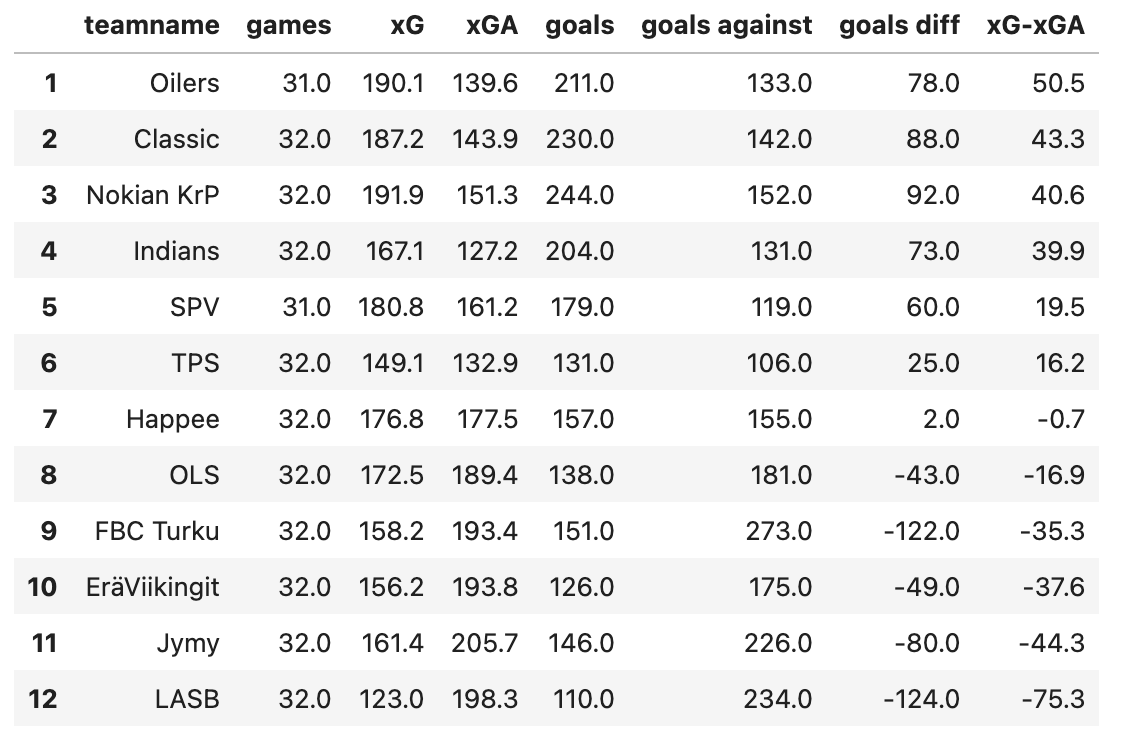
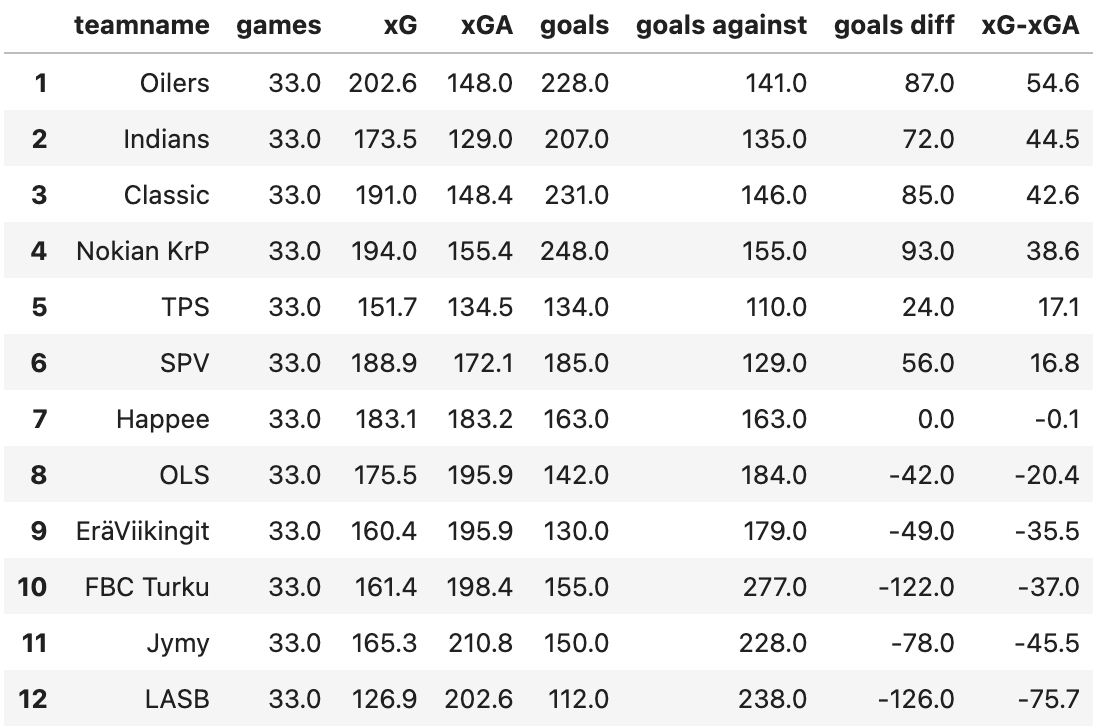
fixes

diff --git a/_posts/2025-3-01-floorball-eda-men.md b/_posts/2025-3-01-floorball-eda-men.md
@@ -18,7 +18,7 @@ Salibandyliitto jakaa F-Liigan maalitilastoja ottelukohtaisesti. Niistä näkyy 
 
 Tässä analysoitu data on peräisin F-Liigan tulospalvelusta. Siellä jaetaan tietoa siitä, mistä päin kenttää on vedetty ja onko veto suuntautunut kohti maalia, mennyt maaliin, blokattu tai mennyt ohi. Syvempi datan analyysiä sivuilta kuitenkin on niukasti. 
 
-Tarkastellaan seuraavaksi kauden tilannetta 2024-2025 maaliskuun alussa. Vastaavan analyysin voi toki tehdä mille ajanhetkelle tahansa. Tässä tulokset perustuvat vain kauden 2024-2025 miesten F-Liigan dataan.
+Tarkastellaan seuraavaksi kauden tilannetta 2024-2025 maaliskuun puolivälissä. Vastaavan analyysin voi toki tehdä mille ajanhetkelle tahansa. Tässä tulokset perustuvat vain kauden 2024-2025 miesten F-Liigan dataan. Aineistona on kauden 2024-25 koko runkosarja.
 
 2 Laukaisukartat
 ====
@@ -55,57 +55,57 @@ Laukaisukartat kertovat, että maaleista suuri osa syntyy läheltä.
 3 Etäisyyden vaikutus maaleihin
 ====
 
-Etäisyyden kasvaessa maalista on vaikeampi tehdä maalia (Kuvio 4). 
+Etäisyyden kasvaessa maalista on vaikeampi tehdä maalia (Kuvio 6). 
 Blokattujen laukausten osuus kasvaa etäisyyden kasvaessa. Ohilaukausten osuus säilyy jotakuinkin vakiona yli 4 metrin etäisyyksillä. Hieman yllättäen torjuntojen osuus on korkeimillaan hieman alle 2 metrin etäisyydellä. Tätä pienemmillä etäisyyksillä maalivahdin reaktiot eivät ilmeisesti riitä torjuntaan ja pidemmillä etäisyyksillä blokkausten osuus kasvaa niin paljon, että se vähentää torjuntojen osuutta.
 
 Yli 1,5 metriä pidemmillä etäisyyksillä maalien ja blokattujen laukausten osuus yhteensä kaikista laukauksista on jotakuinkin vakio 50 prosenttia kaikista laukauksista.
 
 ![Vetojen jakauma etäisyyden mukaan](/images/floorball/miehet/distance.png)<br>
-_Kuvio 4. Miltä etäisyydeltä tapahtuu laukaukselle mitä._
+_Kuvio 6. Miltä etäisyydeltä tapahtuu laukaukselle mitä._
 
-Kuviossa 5 "laukauskohti" tarkoittaa oleellisesti torjuttujen laukausten osuutta kaikista niistä laukauksista, jotka joko torjutaan tai menevät maaliin. Siitä näkee, että torjuntaprosentti on luokkaa 20-25, kun vedot lähtevät alle 1,5 metrin päästä maalista. Siitä aina 4 metriin torjuntaprosentti on noin 35, mistä torjuntojen osuus kasvaa kohti 85 prosenttia 16 metriin päässä maalilta. Torjuntojen osuus kaikista maalille asti tulleista vedoista siis kasvaa etäisyyden kasvaessa, toisin kuin kuvio 4 antoi ymmärtää.
+Kuviossa 7 "laukauskohti" tarkoittaa oleellisesti torjuttujen laukausten osuutta kaikista niistä laukauksista, jotka joko torjutaan tai menevät maaliin. Siitä näkee, että torjuntaprosentti on luokkaa 20-25, kun vedot lähtevät alle 1,5 metrin päästä maalista. Siitä aina 4 metriin torjuntaprosentti on noin 35, mistä torjuntojen osuus kasvaa kohti 85 prosenttia 16 metriin päässä maalilta. Torjuntojen osuus kaikista maalille asti tulleista vedoista siis kasvaa etäisyyden kasvaessa, toisin kuin kuvio 6 antoi ymmärtää.
 
 ![Vetojen jakauma etäisyyden mukaan](/images/floorball/miehet/distance2.png)<br>
-_Kuvio 5. Etäisyyden vaikutus maalille asti päässeiden laukausten vaikutukseen._
+_Kuvio 7. Etäisyyden vaikutus maalille asti päässeiden laukausten vaikutukseen._
 
-Kuvio 6 näyttää, miten maalien synty riippuu etäisyydestä. Huolimatta siitä, että alle 2,5 metristä ammutaan vähän, syntyy maaleja siltä etäisyydeltä hyvällä prosentilla, kuten myös kuvio 4 näyttää.
+Kuvio 8 näyttää, miten maalien synty riippuu etäisyydestä. Huolimatta siitä, että alle 2,5 metristä ammutaan vähän, syntyy maaleja siltä etäisyydeltä hyvällä prosentilla, kuten myös kuvio 6 näyttää.
 
-Samalla tavoin maaliin menneiden laukausten kumulaativinen osuus etäisyyden suhteen kasvaa selvästi nopeammin kuin kaikkien laukausten (Kuvio 6).
+Samalla tavoin maaliin menneiden laukausten kumulaativinen osuus etäisyyden suhteen kasvaa selvästi nopeammin kuin kaikkien laukausten (Kuvio 8).
 Tämäkin kertoo siitä, että maaleissa läheltä ammutut laukaukset korostuvat.
 
 ![Vetojen jakauma etäisyyden mukaan](/images/floorball/miehet/maali_vs_kaikki.png)<br>
-_Kuvio 6. Etäisyyden vaikutus maalien syntyyn kumulatiivisesti._
+_Kuvio 8. Etäisyyden vaikutus maalien syntyyn kumulatiivisesti._
 
 
 4 Kulman vaikutus maaleihin
 ====
 
-Se, mistä kulmasta laukaus tulee, vaikuttaa maalin syntyyn. Laukaisukulmissa korostuu kolme piikkiä: keskeltä ja B-pisteiltä (Kuvio 7).
+Se, mistä kulmasta laukaus tulee, vaikuttaa maalin syntyyn. Laukaisukulmissa korostuu kolme piikkiä: keskeltä ja B-pisteiltä (Kuvio 9).
 
 ![Vetojen jakauma etäisyyden mukaan](/images/floorball/miehet/angle_laukauskaikki.png)<br>
-_Kuvio 7. Kaikki laukaukset._
+_Kuvio 9. Kaikki laukaukset._
 
 Maalit tehdään pääosin keskeltä. Maaleja tehdään kuitenkin myös jonkin verran suurista kulmista. 
 
 ![Vetojen jakauma etäisyyden mukaan](/images/floorball/miehet/angle_laukausmaali.png)<br>
-_Kuvio 8. Maalit._
+_Kuvio 10. Maalit._
 
 5 Joukkueiden väliset erot
 ===
-Joukkueiden laukauskartoissa on selviä eroja (Kuvio 9). Oilers laukoo paljon oikealta läheltä laitaa, ja saakin sieltä jonkin verran maaleja. Kuitenkin Oilersilla maalit painottuvat maalinalueelta vedettyihin. OLS laukoo hyvin eri tavalla kuin muut joukkueet: sen laukaukset lähtevät korostetusti maalialueelta ja sen edustalta painottuen vasempaan laitaan.
+Joukkueiden laukauskartoissa on selviä eroja (Kuvio 11). Oilers laukoo paljon oikealta läheltä laitaa, ja saakin sieltä jonkin verran maaleja. Kuitenkin Oilersilla maalit painottuvat maalinalueelta vedettyihin. OLS laukoo hyvin eri tavalla kuin muut joukkueet: sen laukaukset lähtevät korostetusti maalialueelta ja sen edustalta painottuen vasempaan laitaan.
 
 ![alt text](/images/floorball/miehet/joukkueet_laukauskaikki.png)
-_Kuvio 9. Kaikki laukaukset._
+_Kuvio 11. Kaikki laukaukset._
 
 Joukkueiden maalikartat ovat enemmän samanlaisia keskenään kuin laukauskartat.
 Maalit tehdään keskittyen maalialueeseen, ehkä LASBia lukuunottamatta. LASB tekee samaa tahtia maaleja myös vasemmalta laidalta kuin maalialueelta.
 
 ![alt text](/images/floorball/miehet/joukkueet_laukausmaali.png)
-_Kuvio 10. Maalit._
+_Kuvio 12. Maalit._
 
 OLS ja EräViikingit tekevät 37 prosenttia maaleistaan maalialueelta. Muilla joukkueilla osuus on selvästi alempi. Kärkijoukkueet Classic, Krp, Indians ja Oilers tekevät vain noin 26 prosenttia maaleista maalialueelta. Tämäkin on reilusti korkeampi kuin maalialueelta ammuttujen vetojen osuus 11-14 prosenttia.
 
 ![alt text](/images/floorball/miehet/d_miehet2.png)
-_Kuvio 11. Mikä osuus vedoista ja maaleista ammutaan maalialuen 4m x 5m alueelta. Mukana myös tieto vetojen ja maalilaukausten keskietäisyydestä._
+_Taulukko 1. Mikä osuus vedoista ja maaleista ammutaan maalialuen 4m x 5m alueelta. Mukana myös tieto vetojen ja maalilaukausten keskietäisyydestä._
 
 Oilers ampuu joukkueista keskimäärin kauimpaa maalista. Myös maaliin menneiden vetojen keskimääräinen etäisyys maalista on suurin. 
